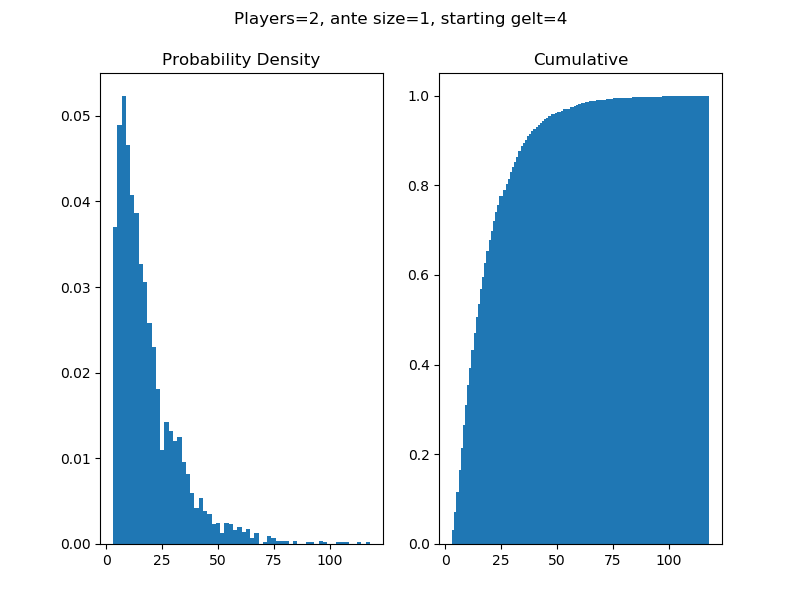
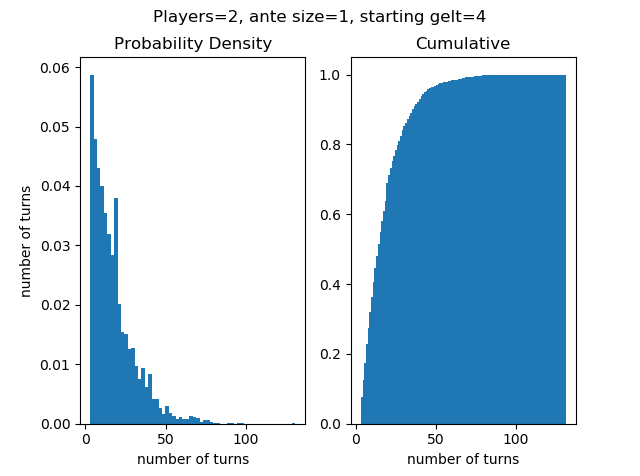
added axis labels to Dreidel, updated plot

diff --git a/i_made_it_out_of_clay.py b/i_made_it_out_of_clay.py
@@ -138,9 +138,12 @@ class Dreidel_Game:
         
         a[0].hist(self.counts, bins=60, cumulative=False, normed=True)
         a[0].set_title(f'Probability Density')
+        a[0].xaxis.set_label_text('number of turns')
+        a[0].yaxis.set_label_text('number of turns')
         
         a[1].hist(self.counts, bins=120, cumulative=True, normed=True)
         a[1].set_title(f'Cumulative')
+        a[1].xaxis.set_label_text('number of turns')
         plt.show()
   
 
@@ -155,7 +158,7 @@ g = Dreidel_Game(2, 1, 4, 500, verbose=False)
 g.play_game()
 g.analyze_configuration(games_to_play=3000)
 
-g = Dreidel_Game(12, 1, 3, 500, verbose=False)
+g = Dreidel_Game(4, 1, 3, 500, verbose=False)
 g.play_game()
 g.analyze_configuration(games_to_play=3000)
 
